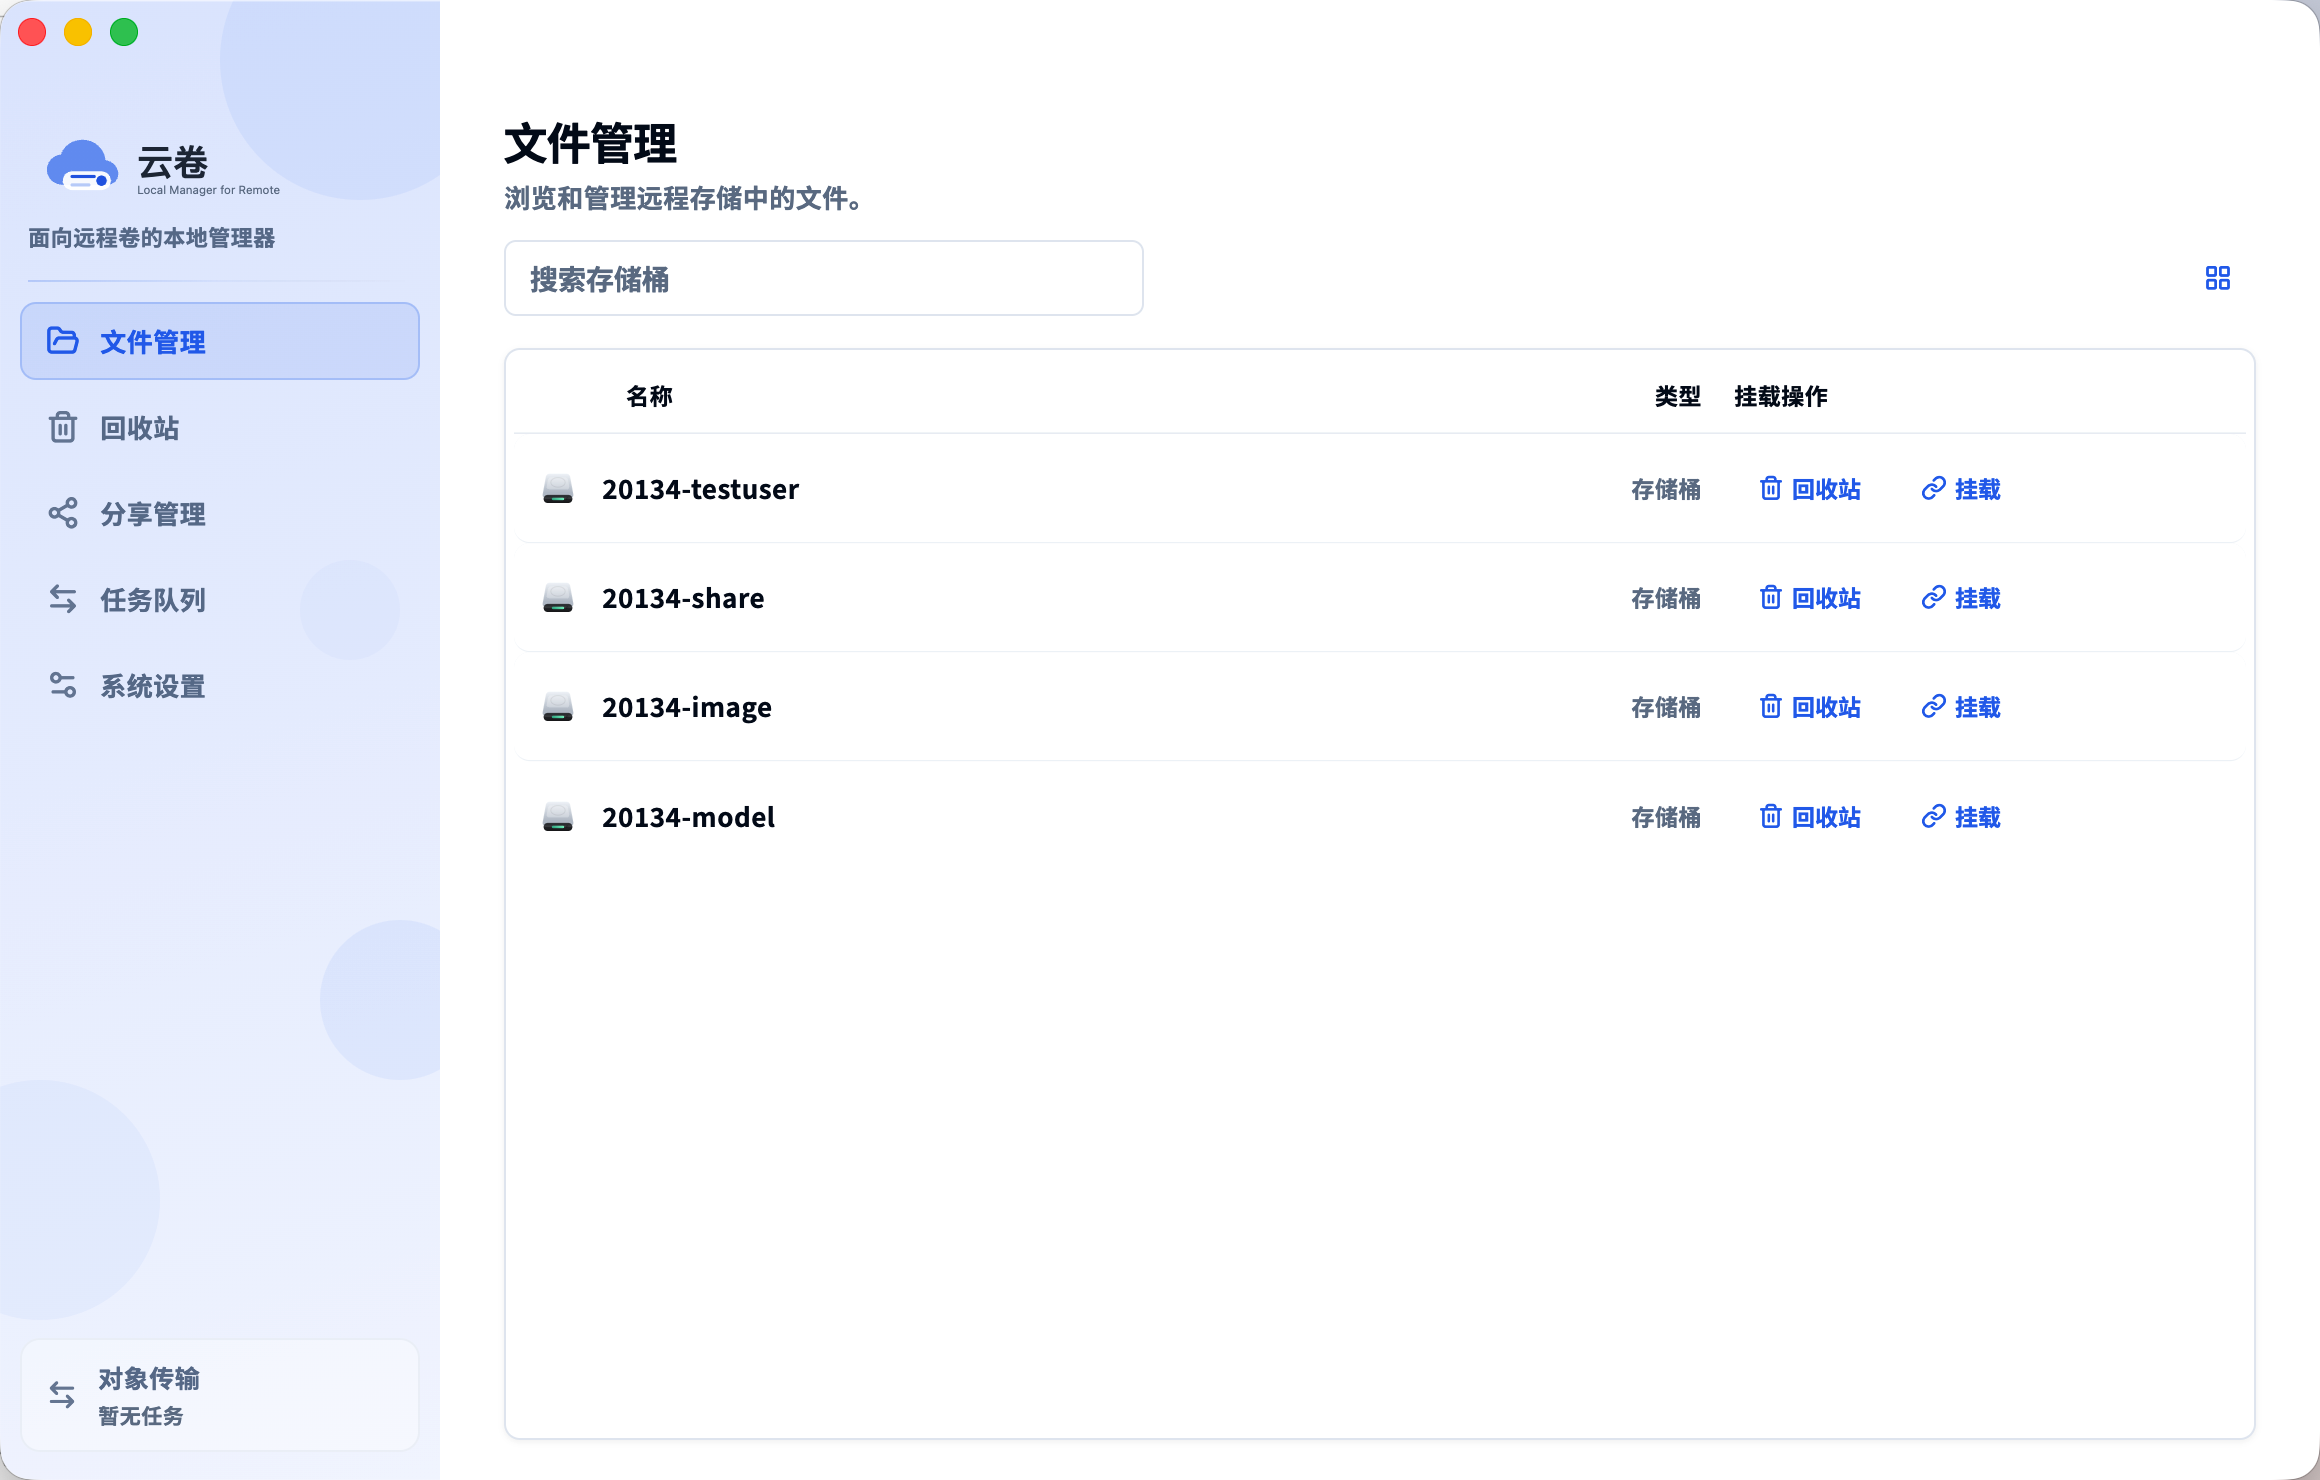
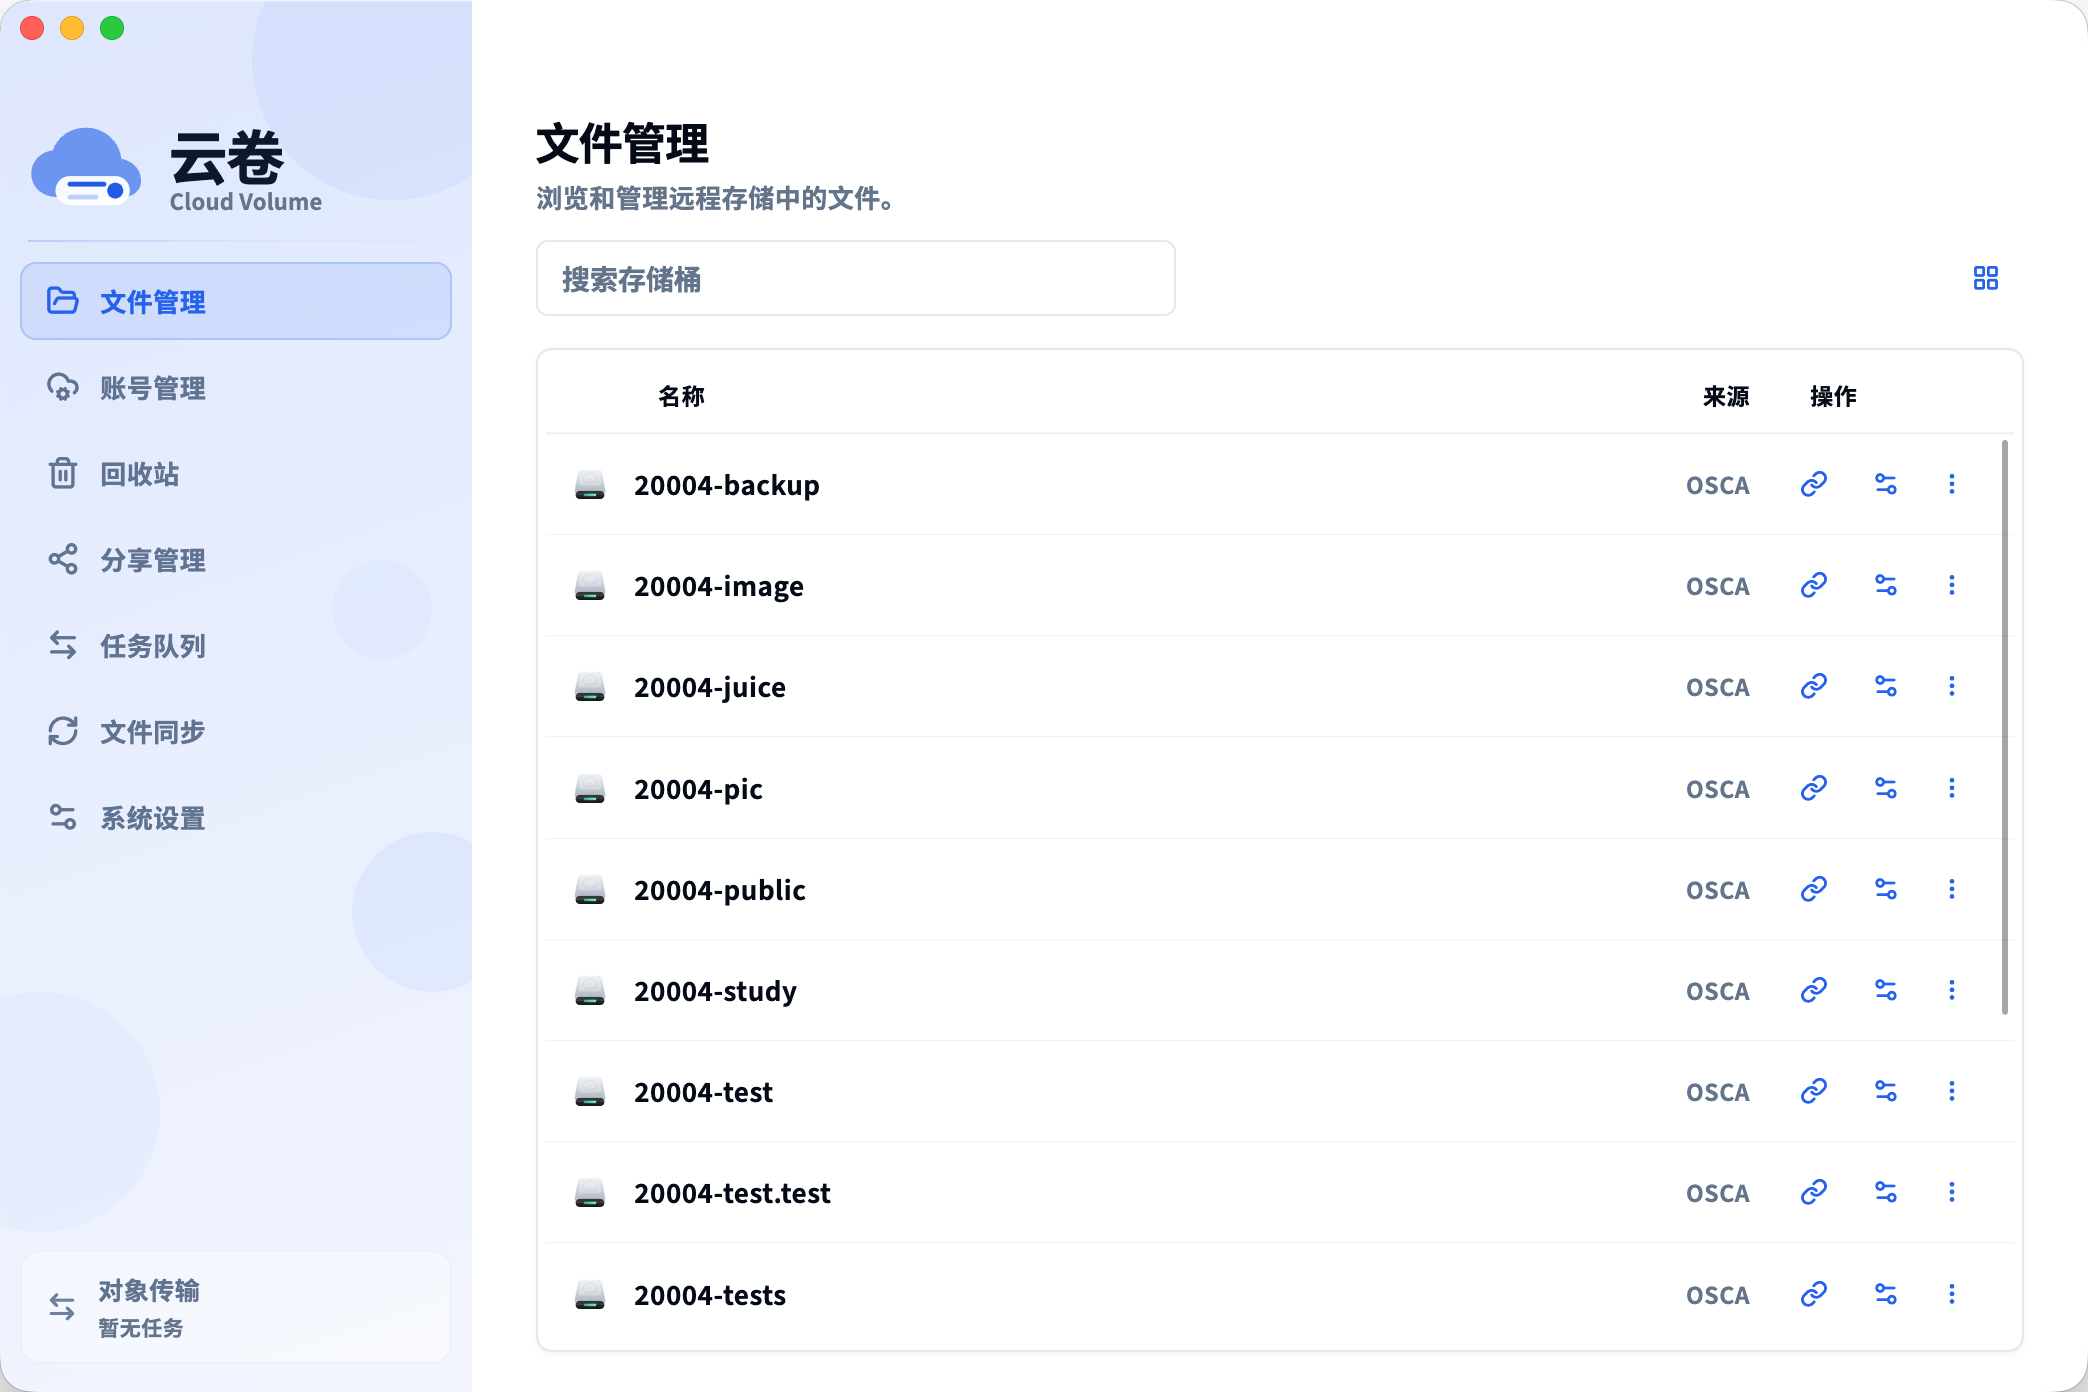
docs: 重写 README 功能导览并补充截图

diff --git a/README.md b/README.md
@@ -12,39 +12,48 @@ clone 仓库后，直接执行 `make run` 即可启动桌面端（macOS / Linux 
 
 Flutter 版本兼容说明：`pubspec.yaml` 的 Dart SDK 约束为 `>=3.11.0 <4.0.0`，对应 Flutter 3.41（Dart 3.11）及以上均可直接 `make run`。如果你的 Flutter 自带的 Dart SDK 更旧导致 `flutter pub get` 报版本不满足，请用 `flutter upgrade` 升级到 stable 通道再重试。
 
-## 仓库截图
+## 功能导览
 
-![云卷主界面](docs/screenshots/main-page.png)
+云卷把对象存储、WebDAV 和百度网盘放到同一个桌面工作台里：先添加账号，再进入文件管理；需要长期使用时可以挂载成系统目录，也可以创建本地目录与远端目录之间的同步任务。
 
-## 社区交流
+首次启动会引导选择存储类型，目前支持 S3 兼容对象存储、WebDAV 和百度网盘。
 
-- QQ 交流群：`572532027`
+![首次启动选择账号类型](docs/screenshots/init1.png)
 
-![QQ 群二维码](docs/screenshots/qrcode.jpg)
+S3 账号支持 endpoint、access key、secret key、region、path-style URL 和 bucket 映射名称等配置；WebDAV 和百度网盘走各自的授权流程。
+
+![添加 S3 对象存储账号](docs/screenshots/init2.png)
+
+账号管理页集中维护多个上游账号，新增账号后会直接出现在文件管理首页，不需要在不同连接之间来回切换。
+
+![账号管理](docs/screenshots/account-page.png)
+
+文件管理首页聚合展示所有账号下的 bucket / 根目录，并在列表中标出来源账号、存储类型、回收站和挂载状态。
+
+![文件管理首页](docs/screenshots/main-page.png)
+
+进入目录后可以浏览、搜索、上传、下载、新建目录、复制、移动、重命名、删除、分享、预览文件，并在桌面端支持拖拽上传和粘贴上传。
+
+![远端文件浏览](docs/screenshots/file-page.png)
+
+常用 bucket 可以挂载到本地目录，按系统文件管理器的方式读写远端对象；读写会先使用本地缓存和写回队列，再异步同步到远端。
+
+![挂载存储桶](docs/screenshots/mount.png)
+
+文件同步页可以把本地目录绑定到远端桶目录，支持仅上传、仅下载和双向同步，并把同步产生的操作接入统一传输队列。
+
+![文件同步任务](docs/screenshots/sync.png)
 
 ## 核心能力
 
-- 文件管理：桶列表、目录浏览、列表/网格视图、右键操作、搜索、多选、批量下载/删除；进入多选后点击任意文件或目录都会切换选择状态；空白区和文件项右键都支持刷新、新建目录、上传，普通目录来回切换会命中本次运行的对象列表缓存，只有显式刷新、错误重试或写操作完成后才会重新请求远端；加载态会显示中文等待文案，百度网盘目录长时间等待时会提示可能触发频率限制并正在自动重试；桌面端文件夹右键可直接递归下载，多选右键会直接提供批量下载、复制、移动和删除；新增或初始化账号时可配置映射到文件管理页的桶名称，桶列表支持直接打开“桶设置”并为当前桶单独配置只读、是否启用回收站、以及桶级回收站目录覆盖；WebDAV 目录会按当前层级探测只读权限并限制写入入口，根目录只读但子目录可写时会以当前子目录权限为准；当服务器 ACL 缺失时，会结合当前目录的 `OPTIONS Allow` 做保守判断，只在明确只读方法集时拦截写入，避免把带 `LOCK/COPY/MOVE/PROPPATCH` 但未列出 `PUT` 的目录误判成只读。桌面端还支持把本地文件或文件夹拖入文件列表上传、复制本地文件或文件夹后在列表中粘贴上传、复制远端文件后粘贴到 Finder / Explorer 等本地目录；文件夹上传由 Go bridge 在后台先扫描出总文件数与总字节数，再以 4 路有界并发上传文件，百度网盘目录上传会自动降为保守小并发，并在 403 限流或单文件上传失败时 sleep 重试，前端会先弹出统一的拟态进度框，顶部显示整个目录进度与速度，任务行显示当前活跃文件进度和失败原因，并可直接取消或切到后台继续上传。批量删除也会显示统一拟态进度框，展示每个删除任务状态，并允许切到后台继续执行。文件列表/网格里也可以直接用鼠标拖出选框批量选择对象，并与已有选择做切换合并，拖拽中滚动列表也会延续本次圈选。
-- 百度网盘 OpenAPI：账号管理和首次初始化现在支持“百度网盘”类型；桌面端会按百度要求使用 `oob` 模式打开浏览器授权页，用户把网页显示的授权码粘贴回应用后再换取 access token / refresh token 并保存到 profile。百度网盘目录浏览会复用前端列表缓存，并在上游返回 `hit frequency limit` 这类频控错误时自动退避重试；列表结果会过滤百度 `listall` 返回的当前目录自身条目，避免同名目录被误当作子目录导致递归下载 `file not found`；上传会严格先落到 `/apps/网盘demo/`，再自动移动到用户最终选择的目标路径；当前已覆盖账号接入、目录浏览、下载、上传、复制、移动、重命名、删除与挂载链路，分享管理仍会在百度账号下隐藏。
-- 文件预览：桌面端点击文件会先打开应用内预览弹框，图片可直接缩放查看；PDF、视频、Word 及暂不支持的格式会提示下载查看。弹框里的“外部应用打开 / 另存为 / 下载”会复用同一个拟态进度区域，外部打开在下载完成后自动交给系统应用并关闭弹框，下载和另存为完成后保留完成状态供确认；当被预览的文件在远端已被删除（404/NoSuchKey）时，弹框只保留关闭按钮，不再显示下载相关动作，关闭后会自动刷新当前目录让已删除的条目消失；文件列表右键和多选下载也会弹出统一下载进度框，并可切到后台继续执行；右键下载会先显示进度弹框，再继续选择本地保存路径；前台进度弹框中的任务也会同步点亮侧边栏“对象传输”；目录展开失败也会在任务行内展示错误，扫描完成后会显示总文件数和总字节数；百度网盘下载和文件信息读取会用带退避重试的路径查找，并复用列表阶段缓存的 fsid 获取下载地址，避免 SDK 内部频控被误报为 `file not found` 以及每个文件下载前重复 list；下载到本地路径时会优先复制已有文件内容缓存，目录递归下载中的已缓存子文件也不会重新请求远端下载，已浏览过的目录层级会复用页面对象列表缓存。；本地拖拽或粘贴上传的文件会在上传成功后把本地副本登记进预览缓存，双击打开刚上传的文件直接命中缓存秒开，不再重复下载，缓存写入失败也不影响上传成功。
-- 挂载访问：macOS 通过系统 WebDAV 卷挂载，Linux 通过 FUSE 挂载，Windows 支持 WebDAV 与 Cloud Files 方案；挂载前可选择默认或自定义路径，也可切换只读挂载。挂载层现在通过统一的 storage backend 能力接口驱动远端读写、范围读取、建目录、移动、删除和异步写回，不再只绑定 S3，三端继续复用同一套本地缓存、overlay 与异步写回链路。
-- Web 控制台：浏览器端不再尝试本地挂载，而是通过 Go HTTP 服务提供登录态、对象管理 API、浏览器上传/下载，以及按 bucket 暴露的 WebDAV 入口。
-- Windows WebDAV 挂载：把当前桶映射成 Windows WebDAV 网络驱动器，并复用现有本地优先读写与任务队列逻辑；Explorer “此电脑”入口默认不注册，可在 Windows 设置里手动开启。
-- 本地优先：挂载写入、删除、改名、移动先落本地缓存与 overlay，再异步回写远端。
-- 文件管理同步提示：进入已挂载桶时，顶部挂载状态会直接显示 `等待同步 N` / `同步中 N`，便于判断桌面写入是否已经回传远端。
-- 文件列表同步状态：进入已挂载桶的文件列表后，会直接包含待同步的本地写回项，并在独立状态列显示 `已同步`、`等待同步` 或 `同步中`；名称下方不再重复放同步文案，目录会按子项聚合同步状态。
-- Windows Cloud Files 原生状态：默认的 `Cloud Files + 本地缓存/异步同步` 模式现在会把写回队列状态投影回 Explorer 的 sync root，待同步文件会显示 Cloud Files 的未同步状态，上传完成后恢复为已同步状态。
-- 卸载与回写恢复：挂载写回现在会先持久化到每个 bucket 的本地队列库，再按路径合并等待异步推送时间；默认等待 10 秒，也可以在设置页调整，卸载后只要应用进程还在，后台会继续把已排队文件回传远端。
-- 断点续传：大文件挂载上传支持可恢复 multipart writeback，挂载下载支持复用完整缓存与 `.downloading` 分片续传。
-- 回收站：应用级软删除、全局回收站 / 桶级回收站、行内恢复与彻底删除操作、批量删除、一键清空、分页与无限滚动；S3 默认启用回收站，WebDAV 默认关闭回收站以避免根目录只读时默认 `.trash` 写入失败，启用后可把回收站目录改到可写子目录，例如 `20134-image/.trash`。
-- 分享管理：为文件创建预签名下载链接，集中管理分享记录、续期、复制与删除。
-- 任务队列：统一展示上传、下载、复制、移动、删除、挂载写回，以及 WebDAV 挂载触发的懒加载读取；目录上传/下载会保留父级汇总任务，并为每个文件记录子任务，失败的单文件上传/下载可直接重试；挂载读取会聚合到单文件任务并显示当前 `bytes=start-end` range，支持筛选、多选、批量开始/取消，以及持久化恢复。
-- 文件同步：可指定一个本地目录定期同步到远端桶目录，支持仅上传、仅下载和双向同步三种方向；双向同步通过本地索引加三方比对识别新增、修改、删除与重命名，冲突时按较新、本地优先、远端优先或跳过策略处理；正在写入的热数据会等到静默指定秒数后才纳入同步，避免频繁操作远端；同步配置（新增、编辑、删除、启停）在独立的文件同步页面统一管理，同步产生的任务复用「传输」任务队列；文件同步页在每条配置卡片内展示当前最新进行中的同步项摘要。
-- 桌面体验：托盘图标、透明标题栏、统一中文字体、面向桌面鼠标操作的上下文菜单和固定表头列表。
-- macOS 宿主壳：关闭主窗口时会先确认“退出云卷 / 隐藏到托盘 / 取消”，隐藏到托盘会保留后台菜单栏入口，只有确认退出才结束应用。
-- Windows 宿主壳：使用与 macOS 一致的 `云卷` 品牌图标，移除系统标题栏，在应用内右上角提供自定义最小化 / 最大化 / 关闭按钮，默认按主屏工作区居中打开窗口，并常驻系统托盘以支持隐藏和恢复主窗口；隐藏到托盘后会记住最大化状态，再次点击托盘或重新启动应用都会正确把主窗口带回屏幕，不再出现只剩托盘无法唤起主界面的情况。
-- Linux 宿主壳：去掉 GTK 系统标题栏，使用与 Windows 相同的应用内右上角最小化 / 最大化 / 关闭控件，支持直接拖动自定义顶部区域移动窗口，关闭时会提示“最小化窗口”或“退出云卷”，并按当前屏幕分辨率收敛默认窗体大小。
-- Windows 挂载同步：Explorer 内对映射 WebDAV 盘的新建、写入、删除、改名会继续走现有 Go 侧本地缓存、写回、删除和移动队列，不影响 macOS 的 WebDAV 异步链路。
+- 多账号与多后端：统一管理 S3 兼容对象存储、WebDAV 和百度网盘账号；首次启动、账号管理和文件管理都围绕同一套 profile 流程展开。
+- 文件管理：聚合 bucket / 根目录、目录浏览、列表/网格视图、搜索、多选、右键菜单、拖拽上传、粘贴上传、复制、移动、重命名、新建目录、下载和批量删除。
+- 预览与缓存：桌面端支持图片预览、外部应用打开、另存为和下载；已下载文件会复用本地缓存，本地拖拽或粘贴上传成功后也会把本地副本登记为预览缓存，刚上传的文件双击即可打开。
+- 桌面挂载：macOS 通过系统 WebDAV 卷挂载，Linux 通过 FUSE 挂载，Windows 支持 WebDAV 与 Cloud Files；支持只读/读写模式、本地优先缓存、overlay、异步写回和写回状态提示。
+- 文件同步：本地目录可定期同步到远端桶目录，支持上传、下载、双向同步、冲突策略、静默期、删除传播、重命名识别和空目录处理。
+- 任务队列：上传、下载、复制、移动、删除、挂载懒加载读取、挂载写回和文件同步任务都进入统一队列，支持进度展示、筛选、取消、重试、前台弹框与后台执行。
+- 回收站与分享：提供应用级软删除、全局/桶级回收站、恢复、彻底删除、清空回收站，以及预签名分享链接的创建、续期、复制和删除。
+- Web 与 CLI：Web 端通过 Go HTTP 服务提供对象管理 API、浏览器上传下载和 bucket WebDAV 入口；Linux 服务器可用 `cloud-volume-cli` 初始化配置并前台挂载 bucket。
 
 ## 界面设计
 
